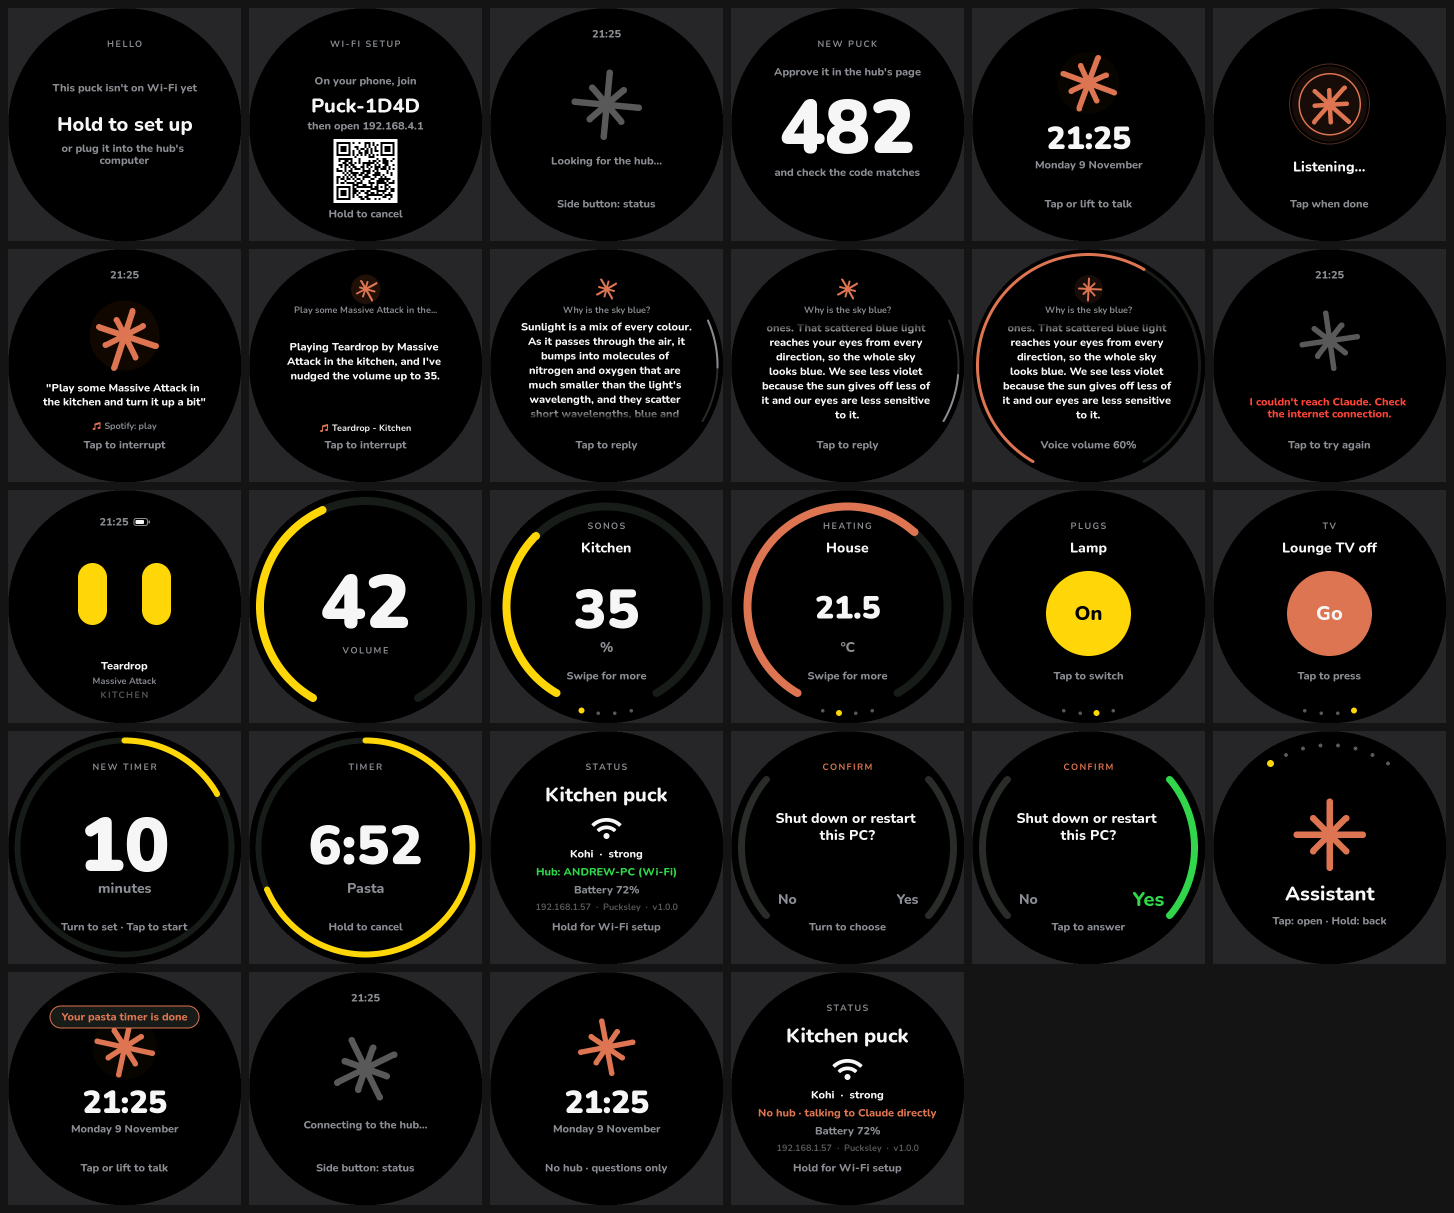
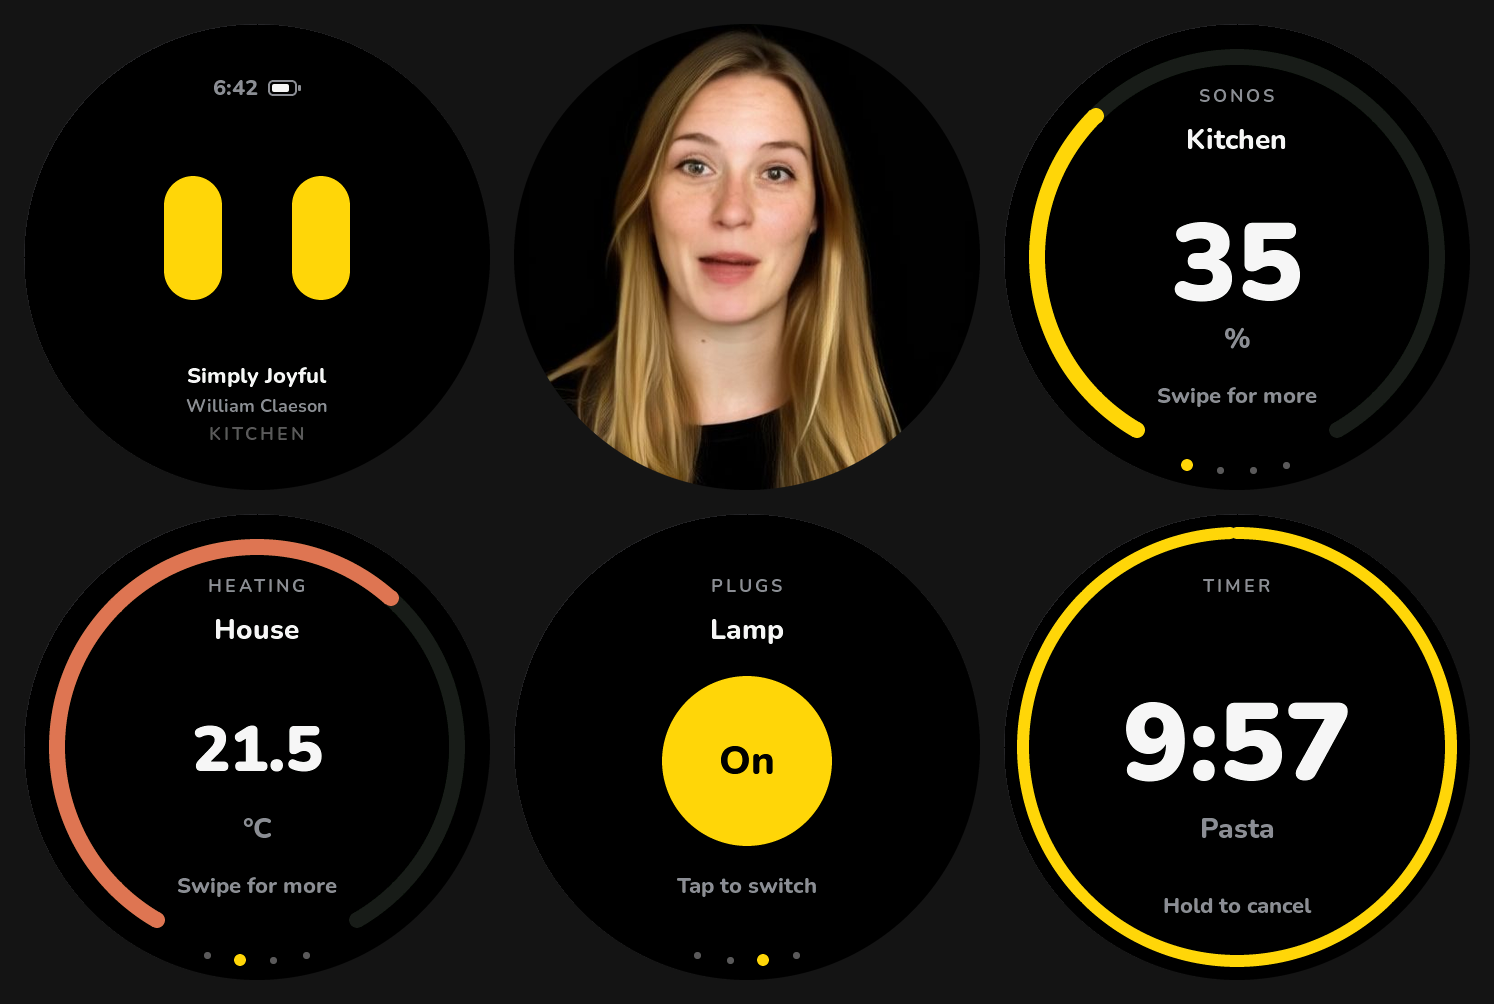
README: six faces, the assistant's talking face second
The sheet of every face is down to six that show what the puck is for: what's playing, the assistant
answering (a frame of a real Openspline reply), the Sonos, the heating, a lamp and a timer. And the
Openspline stop command for Linux no longer matches the shell that runs it.

(cherry picked from commit 329ff50b53dae4d654649cbb22f0f0c30735927a)

diff --git a/README.md b/README.md
@@ -22,7 +22,11 @@ PC app can lend the NAS hub just this PC's controls.
                                                                         └──────────────────────────────────────────────────┘
 ```
 
-![The puck's faces, rendered by the desktop simulator](docs/faces.png)
+![Six of the puck's faces: what's playing, the assistant answering with its talking face, the Kitchen Sonos, the heating, a lamp, and a pasta timer](docs/faces.png)
+
+*What's playing, the assistant answering (its talking face, a frame of a real reply from Openspline), the
+Kitchen Sonos, the heating, a lamp, and a timer. The rest are drawn by the firmware's desktop simulator
+(`firmware/tools/sim`), which renders every face.*
 
 ## What it does
 

diff --git a/docs/LINUX.md b/docs/LINUX.md
@@ -84,7 +84,7 @@ afterwards.
 Settings that name Windows programs come across as they were: Openspline's start command, for one,
 is `wsl.exe …` on Windows. Install Openspline on the Linux PC with its own installer (it needs an
 NVIDIA card) and set the plugin's start command to `sh ~/.local/share/openspline/run.sh` and its stop
-command to `pkill -f openspline_server.native`.
+command to `pkill -f '[o]penspline_server.native'` (the brackets stop it matching the shell that runs it).
 
 ## What it uses
 
